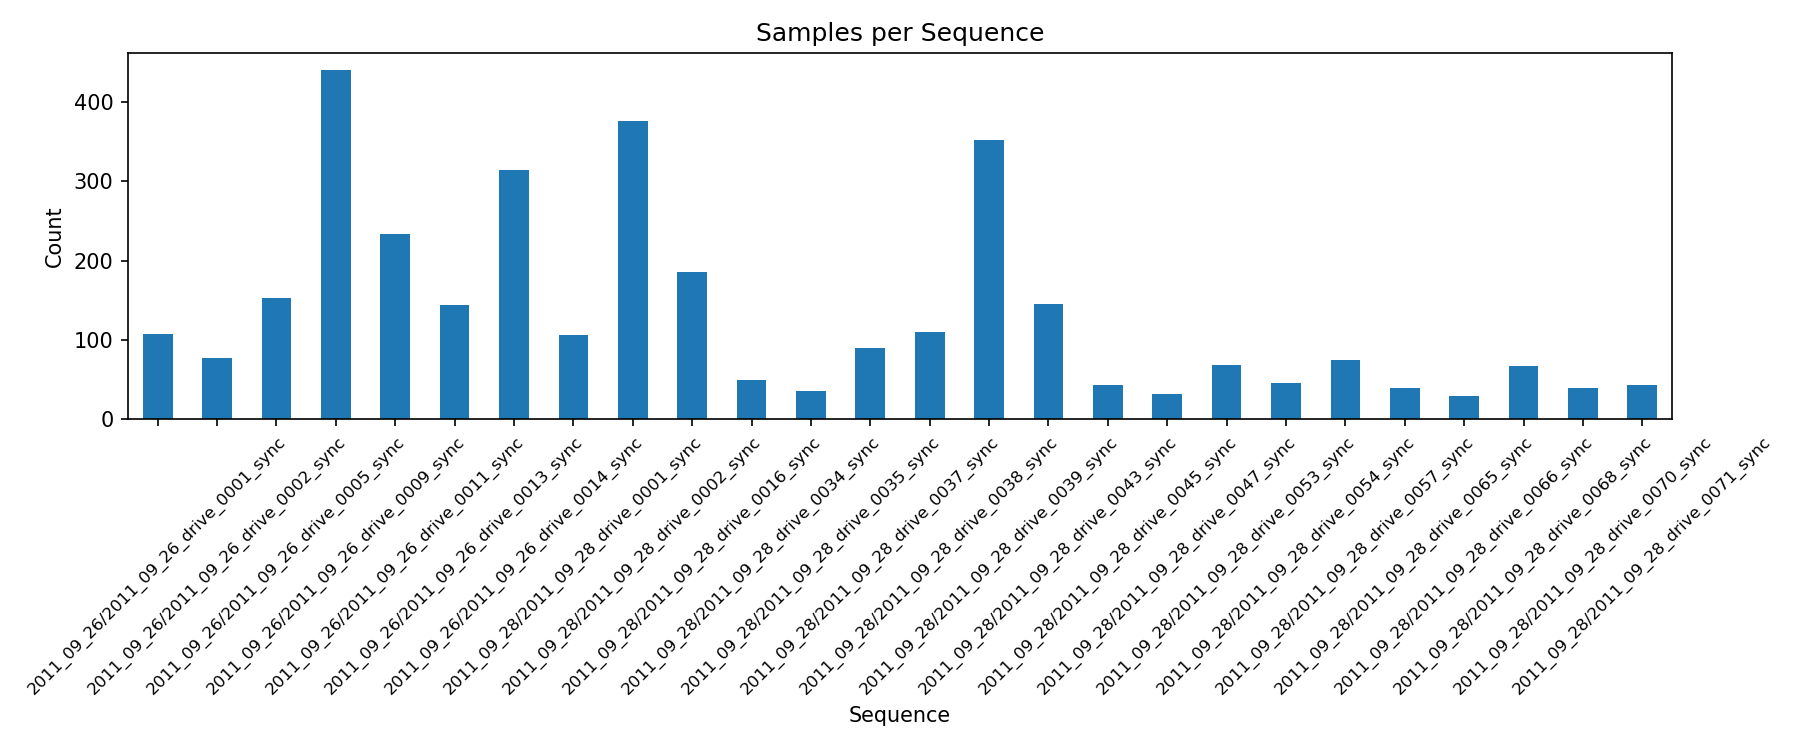
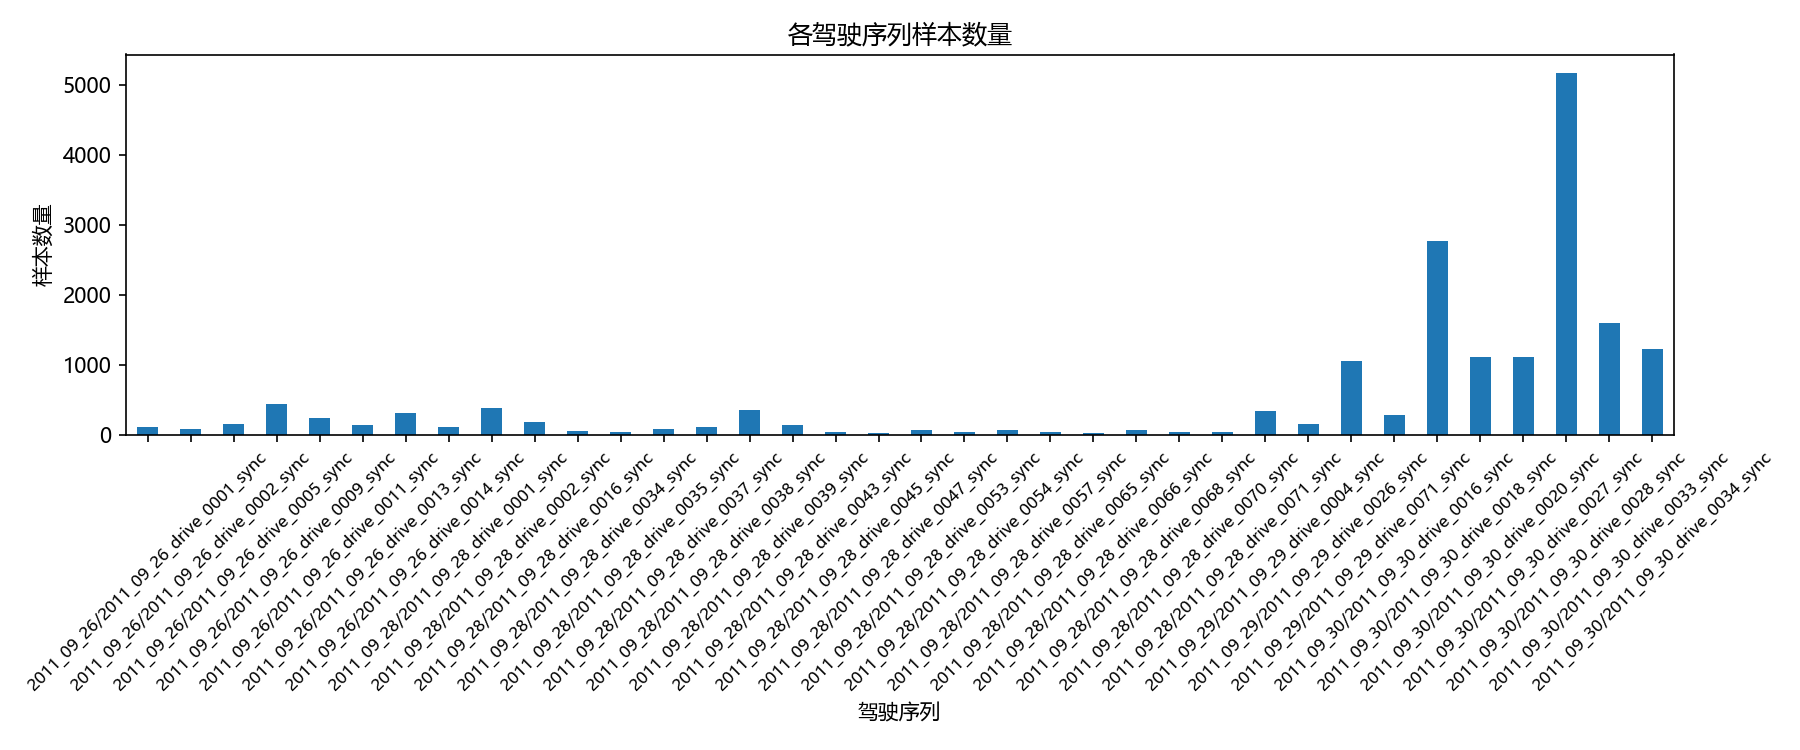
change language of picture

diff --git a/scripts/plot_kitti_analysis.py b/scripts/plot_kitti_analysis.py
@@ -1,4 +1,4 @@
-"""Generate dataset analysis plots for the cleaned KITTI subset."""
+"""Generate Chinese dataset analysis plots for the cleaned KITTI subset."""
 
 import os
 import sys
@@ -18,11 +18,18 @@ os.makedirs(plot_dir, exist_ok=True)
 
 LIDAR_POINTS_THRESHOLD = 100000
 
-plt.rcParams["font.family"] = "sans-serif"
+plt.rcParams["font.sans-serif"] = [
+    "Microsoft YaHei",
+    "SimHei",
+    "Noto Sans CJK SC",
+    "Arial Unicode MS",
+    "DejaVu Sans",
+]
+plt.rcParams["axes.unicode_minus"] = False
 plt.rcParams["font.size"] = 10
 
 df = pd.read_csv(csv_path)
-print(f"Loaded {len(df)} samples")
+print(f"已加载 {len(df)} 个样本")
 
 seq_col = "sequence"
 if "date" in df.columns:
@@ -32,9 +39,9 @@ if "date" in df.columns:
 counts = df[seq_col].value_counts().sort_index()
 fig, ax = plt.subplots(figsize=(12, 5))
 counts.plot(kind="bar", ax=ax)
-ax.set_title("Samples per Sequence")
-ax.set_xlabel("Sequence")
-ax.set_ylabel("Count")
+ax.set_title("各驾驶序列样本数量")
+ax.set_xlabel("驾驶序列")
+ax.set_ylabel("样本数量")
 ax.tick_params(axis="x", rotation=45, labelsize=8)
 fig.tight_layout()
 fig.savefig(os.path.join(plot_dir, "sequence_counts_bar.png"), dpi=150)
@@ -46,11 +53,11 @@ ax.axvline(
     LIDAR_POINTS_THRESHOLD,
     color="red",
     linestyle="--",
-    label=f"Threshold ({LIDAR_POINTS_THRESHOLD})",
+    label=f"清洗阈值（{LIDAR_POINTS_THRESHOLD}）",
 )
-ax.set_title("Distribution of LiDAR Point Counts")
-ax.set_xlabel("LiDAR Points")
-ax.set_ylabel("Frequency")
+ax.set_title("LiDAR 点云数量分布")
+ax.set_xlabel("LiDAR 点数")
+ax.set_ylabel("样本频数")
 ax.legend()
 fig.tight_layout()
 fig.savefig(os.path.join(plot_dir, "lidar_points_hist.png"), dpi=150)
@@ -59,9 +66,9 @@ plt.close(fig)
 fig, ax = plt.subplots(figsize=(14, 5))
 ax.plot(df["lidar_points"].values, linewidth=0.5)
 ax.axhline(LIDAR_POINTS_THRESHOLD, color="red", linestyle="--", alpha=0.5)
-ax.set_title("LiDAR Point Counts by Sample Index")
-ax.set_xlabel("Sample Index")
-ax.set_ylabel("LiDAR Points")
+ax.set_title("各样本 LiDAR 点云数量变化")
+ax.set_xlabel("样本索引")
+ax.set_ylabel("LiDAR 点数")
 fig.tight_layout()
 fig.savefig(os.path.join(plot_dir, "lidar_points_line.png"), dpi=150)
 plt.close(fig)
@@ -71,16 +78,18 @@ if "split" in df.columns:
     fig, ax = plt.subplots(figsize=(6, 6))
     colors = {"train": "#4CAF50", "val": "#FF9800", "test": "#F44336"}
     wedge_colors = [colors.get(k, "#999999") for k in split_counts.index]
+    label_map = {"train": "训练集", "val": "验证集", "test": "测试集"}
+    labels = [label_map.get(k, k) for k in split_counts.index]
     ax.pie(
         split_counts.values,
-        labels=split_counts.index,
+        labels=labels,
         autopct="%1.1f%%",
         colors=wedge_colors,
         startangle=90,
     )
-    ax.set_title("Train / Val / Test Split")
+    ax.set_title("训练集 / 验证集 / 测试集划分")
     fig.tight_layout()
     fig.savefig(os.path.join(plot_dir, "split_pie.png"), dpi=150)
     plt.close(fig)
 
-print(f"Plots saved to {plot_dir}")
+print(f"图表已保存到 {plot_dir}")
